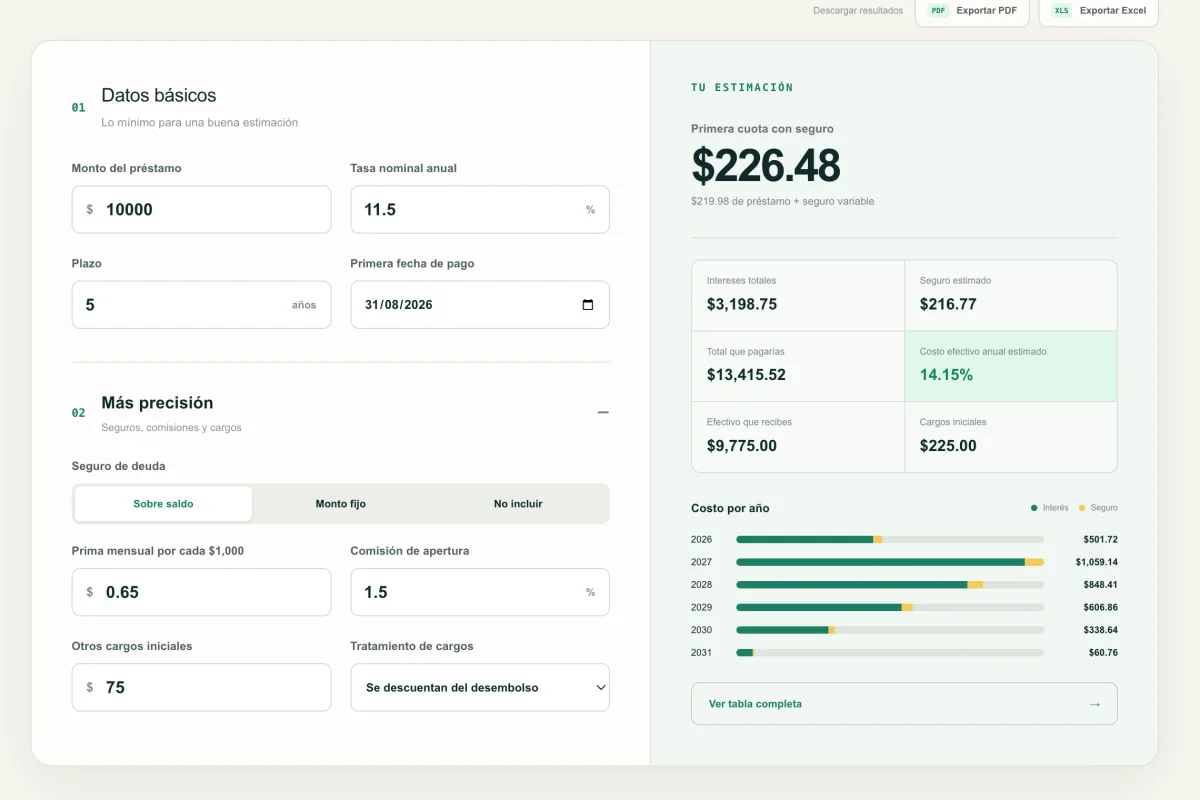
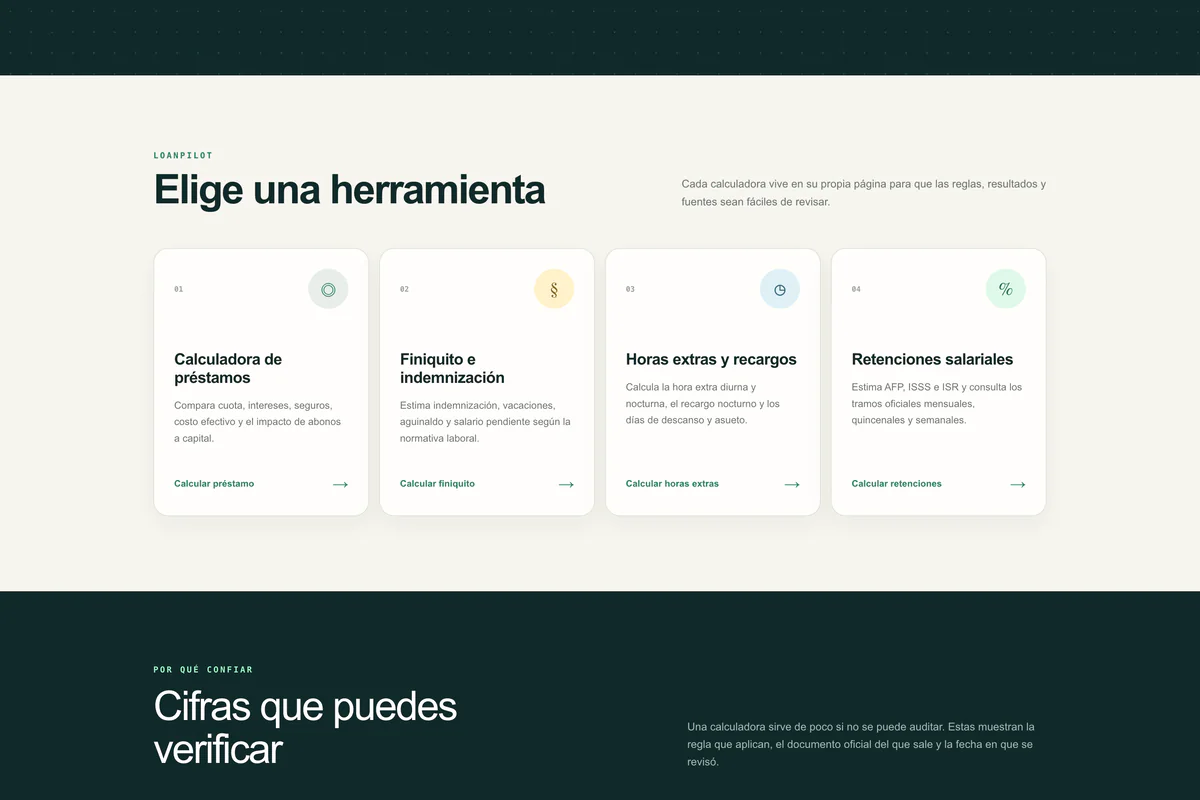
feat: show the four LoanPilot calculators in the project card

diff --git a/src/i18n.ts b/src/i18n.ts
@@ -122,7 +122,7 @@ export const copy = {
           evidence: "Free to open and test in Spanish or English; every official source is cited and dated on the page, and calculations remain in the browser.",
           tags: ["Free to use", "Four calculators", "Español / English"],
           image: "/images/loanpilot.webp",
-          alt: "The LoanPilot loan calculator showing a monthly payment estimate and yearly cost breakdown",
+          alt: "The LoanPilot home page showing its four calculators: loans, severance, overtime and payroll withholdings",
           theme: "teal",
           links: [{ label: "View live project", href: site.loanpilotUrl }]
         }
@@ -403,7 +403,7 @@ export const copy = {
           evidence: "Se puede abrir y probar gratis en español o inglés; cada fuente oficial está citada y fechada en la página, y los cálculos permanecen en el navegador.",
           tags: ["Uso gratuito", "Cuatro calculadoras", "Español / English"],
           image: "/images/loanpilot.webp",
-          alt: "La calculadora de préstamos de LoanPilot mostrando la cuota estimada y el desglose de costo por año",
+          alt: "La portada de LoanPilot mostrando sus cuatro calculadoras: préstamos, finiquito, horas extras y retenciones",
           theme: "teal",
           links: [{ label: "Ver proyecto", href: site.loanpilotUrl }]
         }
